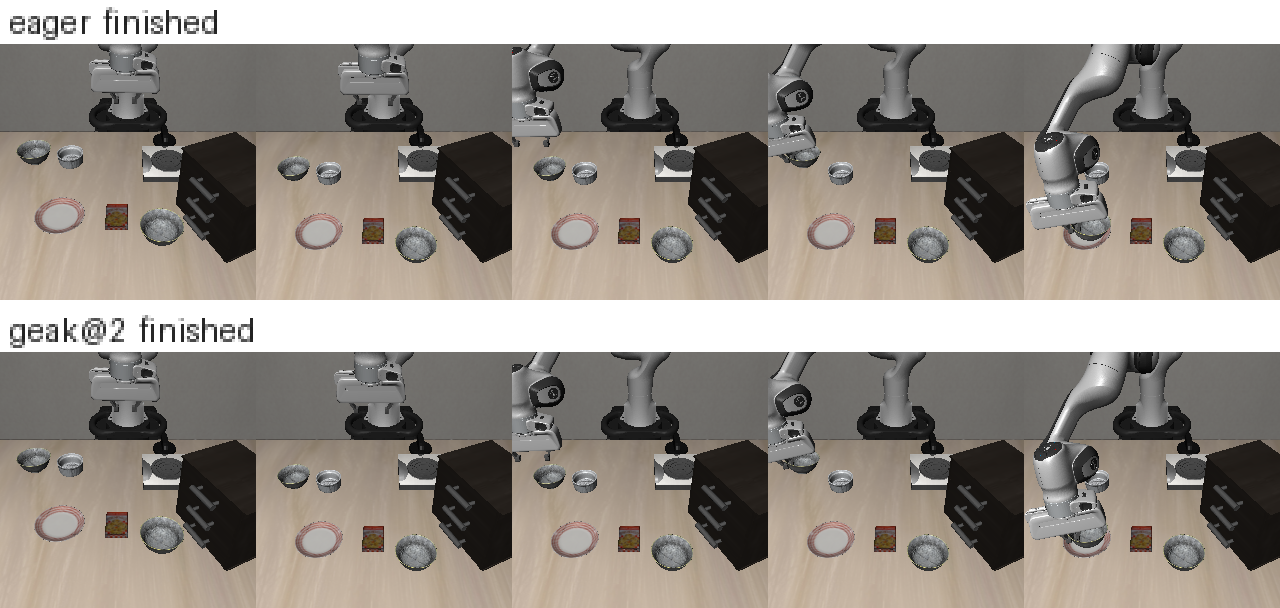
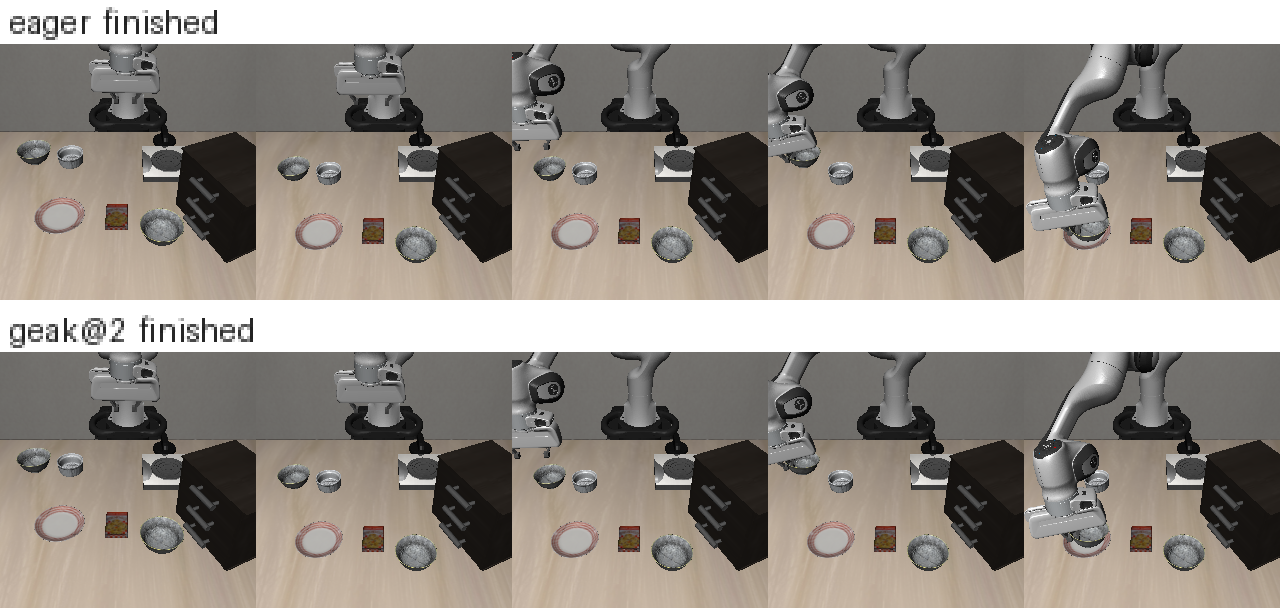
docs: replace the FastWAM post's numbers with the 2026-11-05 rerun
The latency table, its agreement check, the operator mix, both warm ranks, the kernel cards, PC sampling, the thread trace, TunableOp, the smokes, CAE, and the rollout images now come from the rerun, and the five affected charts are redrawn from it. A pinned-versus-unpinned A/B adds CPU pinning as a measured lever: it clears the keep rule for eager only. The 2026-11-03 mad-optimize patch, the eager GEMM replay, and the stall reproduction keep their own dates, because their reruns are still queued.

diff --git a/docs/blog/2026-10-31-hands-on-mad-world-action-models.md b/docs/blog/2026-10-31-hands-on-mad-world-action-models.md
@@ -6,10 +6,10 @@ The fast kernels come from [`faster-action-models`](https://rocm.blogs.amd.com/a
 
 ## Key takeaways
 
-- **The released GEAK ladder reproduces on MI350X.** The published MI355X times are 222.55 ms eager, 24.17 ms for the shipped GEAK tree (9.2×), and 9.59 ms at 2 denoising steps (about 23×). The same three arms on one MI350X measure 223.93, 24.90, and 9.93 ms. Two later sweeps landed within 2% of those medians. MAD measured this tree. It did not create the 9×.
-- **The warm profile names the real hotspot.** A cold trace says `triton_mm` is 66% of kernel time, but that is `torch.compile` autotuning. After a warm cache, the top kernel is `_fw_skmm_kernel` at 14.6%. Its kernel card says it is bandwidth-bound, and a rocprofv3 thread trace shows that both of its compiled variants spend most of their cycles waiting on global loads.
-- **The keep rule refuses a kernel-only win.** A budget-1 patch made `_fw_skmm_kernel` 1.0378× faster on its own test. Two end-to-end samples do not clear the keep rule, so `mad-optimize` leaves the shipped tree in place. That is "not kept," not a measured regression. A TunableOp attempt is not kept either.
-- **A 40-task smoke stays in the same range as the published evaluation.** GEAK at 2 steps solved 39 of 40 tasks and eager solved 40 of 40, one trial each. The published MI355X evaluation, a mean of 11 full LIBERO runs, is 96.86% for GEAK and 97.00% at 2 steps. The smoke is consistent with that range. It is not that evaluation.
+- **The released GEAK ladder reproduces on MI350X.** The published MI355X times are 222.55 ms eager, 24.17 ms for the shipped GEAK tree (9.2×), and 9.59 ms at 2 denoising steps (about 23×). The same three arms on one MI350X measure 225.90, 24.85, and 9.99 ms. Two later runs on the same GPU landed within 2% of those medians. MAD measured this tree. It did not create the 9×.
+- **The warm profile names the real hotspot.** A cold trace says `triton_mm` is 66% of kernel time, but that is `torch.compile` autotuning. After a warm cache, the top kernel is `_fw_skmm_kernel` at 14.8%. Its kernel card says it is bandwidth-bound, and a rocprofv3 thread trace shows that both of its compiled variants spend most of their cycles waiting on global loads.
+- **The keep rule refuses a kernel-only win and keeps a host-side one.** A budget-1 GEAK patch made `_fw_skmm_kernel` 1.0378× faster on its own test, but two end-to-end samples do not clear the keep rule, so `mad-optimize` leaves the shipped tree in place. That is "not kept," not a measured regression. In the rerun, GEAK's one round found nothing faster. TunableOp is not kept either. Pinning the eager arm to its GPU's NUMA-local CPU cores is kept: 3.6% faster, against 1.1% noise.
+- **A 40-task smoke stays in the same range as the published evaluation.** GEAK at 2 steps solved 40 of 40 tasks and eager solved 37 of 40, one trial each. The published MI355X evaluation, a mean of 11 full LIBERO runs, is 96.86% for GEAK and 97.00% at 2 steps. The smoke is consistent with that range. It is not that evaluation.
 - **The prompts that reproduce each section are collected in the appendix.** Four of them stay in the text, at the step where the prompt itself is the lesson. Paste them into Claude Code from the MAD repo root.
 
 ## How to read this post
@@ -18,7 +18,7 @@ The result comes first, then the tool that produced it, then the profiling and t
 
 A skill that builds, runs, or writes files starts with a slash command: `/mad-add-model`, `/mad-benchmark`, `/mad-profile`, or `/mad-tune`. A plain sentence does not start one. `/mad-validate-model` and `/mad-report` are read-only.
 
-The three workflows, `mad-benchmark-sweep`, `mad-tune-search`, and `mad-optimize`, are not slash commands. They start through Claude Code's Workflow tool, with a JSON object as `args`, and they only plan unless `execute` is `true`. GPU runs go through `mad-run.sh`, which queues runs so two jobs never share a GPU.
+The three workflows, `mad-benchmark-sweep`, `mad-tune-search`, and `mad-optimize`, are not slash commands. They start through Claude Code's Workflow tool, with a JSON object as `args`, and they only plan unless `execute` is `true`. Claude Code asks you to approve a workflow before it runs. A headless `claude -p` session cannot answer that prompt, so pass it `--allowedTools Workflow`. GPU runs go through `mad-run.sh`, which queues runs so two jobs never share a GPU.
 
 Every prompt mounts the model weights from a host directory. Replace `<host-weights-dir>` with that directory.
 
@@ -39,31 +39,31 @@ The post compares four latency arms:
 
 ## 2. The latency ladder
 
-This table is a reproduction of the GEAK tree that [`faster-action-models`](https://rocm.blogs.amd.com/artificial-intelligence/faster-action-models/README.html) already ships, run on one MI350X. It is not a new optimization. The cited numbers come from one container that times all four arms in three interleaved rounds. Spread is `(max − min) / median`.
+This table is a reproduction of the GEAK tree that [`faster-action-models`](https://rocm.blogs.amd.com/artificial-intelligence/faster-action-models/README.html) already ships, run on one MI350X. It is not a new optimization. The cited numbers come from one container that times all four arms in three interleaved rounds, on 2026-11-05 with nothing else running on the node. Spread is `(max − min) / median`.
 
 | arm | denoising steps | rounds (ms) | median (ms) | spread | vs eager |
 |---|---:|---|---:|---:|---:|
-| eager | 10 | 216.579, 223.929, 229.188 | 223.93 | 5.63% | 1.00× |
-| compile | 10 | 87.373, 88.973, 89.335 | 88.97 | 2.21% | 2.52× |
-| GEAK | 10 | 24.845, 24.899, 24.946 | 24.90 | 0.41% | 8.99× |
-| GEAK at 2 steps | 2 | 9.921, 9.931, 9.959 | 9.93 | 0.38% | 22.55× |
+| eager | 10 | 218.486, 225.903, 227.042 | 225.90 | 3.79% | 1.00× |
+| compile | 10 | 88.426, 90.262, 94.789 | 90.26 | 7.05% | 2.50× |
+| GEAK | 10 | 24.722, 24.848, 24.980 | 24.85 | 1.04% | 9.09× |
+| GEAK at 2 steps | 2 | 9.952, 9.990, 10.041 | 9.99 | 0.89% | 22.61× |
 
-![One session. The dot is the median of three rounds and the bar is min to max. Eager is near 224 ms, so the two GEAK arms sit close to the axis.](figures/latency-ladder.svg)
+![One session. The dot is the median of three rounds and the bar is min to max. Eager is near 226 ms, so the two GEAK arms sit close to the axis.](figures/latency-ladder.svg)
 
-![Times faster than eager on the same MI350X: compile 2.52×, GEAK 8.99×, GEAK at 2 steps 22.55×.](figures/latency-ratio.svg)
+![Times faster than eager on the same MI350X: compile 2.50×, GEAK 9.09×, GEAK at 2 steps 22.61×.](figures/latency-ratio.svg)
 
-The sweep runs each arm as its own cell. It ran on two days, and both runs agree with the cited medians to within 2%:
+Two later runs of the same container, on the same GPU with nothing else on the node, agree with the cited medians. Eager and both GEAK arms stay within 2%. Compile, whose rounds spread the most, moved by up to 4.3%:
 
-| arm | cited median (ms) | sweep, day 1 (ms) | sweep, day 2 (ms) |
+| arm | cited median (ms) | later run 1 (ms) | later run 2 (ms) |
 |---|---:|---:|---:|
-| eager | 223.93 | 221.46 | 220.86 |
-| compile | 88.97 | 90.64 | 90.64 |
-| GEAK | 24.90 | 24.67 | 24.54 |
-| GEAK at 2 steps | 9.93 | 9.89 | 9.90 |
+| eager | 225.90 | 226.91 | 224.45 |
+| compile | 90.26 | 88.26 | 94.18 |
+| GEAK | 24.85 | 24.53 | 24.86 |
+| GEAK at 2 steps | 9.99 | 9.99 | 9.81 |
 
-A later one-container run, on 2026-11-03, timed the four arms together the same way as the cited table. Its medians were 220.02, 90.28, 25.25, and 9.82 ms, each within 2% of the cited median. Its compile rounds spread 10.28%, from 85.68 ms to 94.96 ms. The cited table's compile spread is 2.21%.
+The sweep workflow, `mad-benchmark-sweep` with `execute` on, runs each arm as its own cell. In this rerun its cells ran pinned to GPU 0's CPU cores while six other runs shared the node, and measured 200.13, 81.72, 24.71, and 9.78 ms. Those eager and compile cells are not comparable with the table. On a quiet node, pinning alone made eager 3.6% faster (section 7), less than the gap here, and the run does not show where the rest came from.
 
-On this GPU, GEAK is 3.57× faster than `torch.compile`. The published MI355X comparison is in the same band: `torch.compile` is 1.6–2.6× over eager, and the shipped GEAK tree is 3.7× faster than that compiled path. The published absolute times, on an MI355X, are 222.55 ms eager, 24.17 ms GEAK, and 9.59 ms at 2 steps. The MI350X medians above sit next to those figures. The two machines are not the same measurement, and the post does not treat the small gap between them as a result.
+On this GPU, GEAK is 3.63× faster than `torch.compile`. The published MI355X comparison is in the same band: `torch.compile` is 1.6–2.6× over eager, and the shipped GEAK tree is 3.7× faster than that compiled path. The published absolute times, on an MI355X, are 222.55 ms eager, 24.17 ms GEAK, and 9.59 ms at 2 steps. The MI350X medians above sit next to those figures. The two machines are not the same measurement, and the post does not treat the small gap between them as a result.
 
 That speedup belongs to the kernel tree `faster-action-models` ships. The published write-up attributes it to HIP graph replay, wider projections, less dispatch and data movement, and a fixed-shape VAE, not to one kernel edit. MAD's part is a measurement anyone can repeat.
 
@@ -133,17 +133,17 @@ $ python3 tools/validation/model_config_validator.py --model pyt_fam_fastwam_lat
 
 | category | share of kernel time |
 |---|---:|
-| elementwise | 50.78% |
-| GEMM | 24.58% |
-| reduce | 8.23% |
-| attention (SDPA) | 7.75% |
-| normalization | 3.63% |
-| other | 3.04% |
-| convolution | 1.98% |
+| elementwise | 49.68% |
+| GEMM | 25.01% |
+| reduce | 8.56% |
+| attention (SDPA) | 8.10% |
+| normalization | 3.49% |
+| other | 3.09% |
+| convolution | 2.07% |
 
-The GPU is idle for 70% of that window. Eager mode issues many small kernels, one PyTorch operation at a time, and the GPU waits for the host in between. The dispatch depth agrees: no single kernel takes more than 8.6% of eager GPU time. The top kernel is a hipBLASLt GEMM, followed by a mean reduction, an elementwise multiply, and attention, each near 8%. The latency ladder above is what that wait costs once `torch.compile` or the shipped GEAK tree is used.
+The GPU is idle for 67% of that window. Eager mode issues many small kernels, one PyTorch operation at a time, and the GPU waits for the host in between. The dispatch depth agrees: no single kernel takes more than 9.1% of eager GPU time. The top kernel is a hipBLASLt GEMM, followed by a mean reduction, attention, and an elementwise multiply, each near 8%. The latency ladder above is what that wait costs once `torch.compile` or the shipped GEAK tree is used.
 
-**The top eager kernel, measured inside the model.** The kernel serves two `F.linear` shapes, both bf16 with bias: 32×1024 by 1024×3072, and 32×1024 by 1024×4096. The card is a short run, one warm-up inference and one timed one, 3,000 dispatches across the five counter passes. Its duration is the median of those launches, 7.16 µs, 3.8% below the 7.44 µs median of the same kernel in the model's kernel trace. The trace mean is 7.46 µs. The right-hand column replays the kernel outside the model, and that replay's median, 7.44 µs, matches the trace median. The script is in the appendix.
+**The top eager kernel, measured inside the model.** The kernel serves two `F.linear` shapes, both bf16 with bias: 32×1024 by 1024×3072, and 32×1024 by 1024×4096. The card is a short run, one warm-up inference and one timed one, 3,000 dispatches across the five counter passes. Its duration is the median of those launches, 7.16 µs, within 1% of the 7.12 µs median of the same kernel in the model's kernel trace. The trace mean is 7.51 µs. The right-hand column replays the kernel outside the model, in a run from 2026-11-04. The script is in the appendix.
 
 | | top eager GEMM, in the model | replayed outside the model |
 |---|---|---|
@@ -155,7 +155,7 @@ The GPU is idle for 70% of that window. Eager mode issues many small kernels, on
 
 The card's rule labels a kernel latency-bound only when both rows are under 10% of peak, so 13.2% puts this GEMM just on the bandwidth side of that line. With only 32 rows, the multiply cannot fill the GPU: each launch has at most one workgroup per compute unit, and finishes in a few microseconds. Speeding up this one GEMM would not change the picture much. Fusing operations and replaying them as graphs, which `torch.compile` and the GEAK tree do, removes the gaps between launches.
 
-Counter collection on this arm finishes when launches are serialized. Without that, the run stops at the GPU-to-CPU copy at the end of an inference, GPU idle, including with a kernel filter that matches nothing and with `HSA_ENABLE_SDMA=0`. A kernel trace and PC sampling finish, and the GEAK arm finishes under the same counters. A small script reproduces the hang: tens of thousands of tiny launches, then a host wait, under counters. `AMD_SERIALIZE_KERNEL=3` makes the host wait after every launch, and `kernel-tools.py context --serialize` sets it. With that set, the original configuration, 25 warm-up and 40 timed inferences, finished in about 11 minutes. Before the change it ran for more than 30 minutes and wrote no counter file. The root cause, in rocprofiler-sdk or the HSA runtime, is still open. The launch counts are in the appendix.
+Counter collection on this arm finishes when launches are serialized. Without that, the run stops at the GPU-to-CPU copy at the end of an inference, GPU idle, including with a kernel filter that matches nothing and with `HSA_ENABLE_SDMA=0`. A kernel trace and PC sampling finish, and the GEAK arm finishes under the same counters. A small script reproduces the hang: tens of thousands of tiny launches, then a host wait, under counters. `AMD_SERIALIZE_KERNEL=3` makes the host wait after every launch, and `kernel-tools.py context --serialize` sets it. With that set, the original configuration, 25 warm-up and 40 timed inferences, finished in about 9 minutes. Before the change it ran for more than 30 minutes and wrote no counter file. The root cause, in rocprofiler-sdk or the HSA runtime, is still open. The launch counts are in the appendix.
 
 ```text
 python3 .claude/skills/mad-common/kernel-tools.py context --mode counters --group compute --serialize \
@@ -165,7 +165,7 @@ madengine run --tags pyt_fam_fastwam_eager --additional-context-file <run-dir>/c
 python3 .claude/skills/mad-common/kernel-tools.py card --run-dir <run-dir>
 ```
 
-The same 65-inference run profiled 97,500 dispatches and gave the same 7.16 µs and 13.2% bandwidth. Its mean matrix-core share reads 3.3%, because about one dispatch in five reported a larger matrix-operation count than the rest. The wave count is exact on every dispatch. The median per launch shape is 1.3%, the short run's number, so the card above is the short run.
+The same 65-inference run profiled 97,500 dispatches and gave 7.20 µs, 13.1% of peak bandwidth, and 1.3% of peak matrix-core throughput, the short run's numbers.
 
 A run under a profiler is slower than a clean run, so its `performance:` line is evidence, not a score. That holds for every profiled run in this post.
 
@@ -173,30 +173,30 @@ A run under a profiler is slower than a clean run, so its `performance:` line is
 
 The GEAK arm is already about 9× faster than eager. The next question is which kernel inside it is worth optimizing, and the first answer was wrong.
 
-**The trap: a cold trace.** The first dispatch capture on the GEAK arm put `triton_mm` at 66% of kernel time. That capture started with an empty compile cache. On a cold `torch.compile` run, `triton_mm` is Inductor timing autotune candidates, and those candidates never run again once the cache is warm. GPU utilization over that capture was 5.4%, because it included startup. Optimizing `triton_mm` would have chased compile time, not inference.
+**The trap: a cold trace.** The first dispatch capture on the GEAK arm, on 2026-11-02, put `triton_mm` at 66% of kernel time. That capture started with an empty compile cache. On a cold `torch.compile` run, `triton_mm` is Inductor timing autotune candidates, and those candidates never run again once the cache is warm. GPU utilization over that capture was 5.4%, because it included startup. Optimizing `triton_mm` would have chased compile time, not inference.
 
 ![Perfetto timeline of the cold GEAK capture, about 75 seconds. Queue 3 holds the kernels.](figures/perfetto-dispatch-overview.png)
 
 ![Perfetto, 50 microseconds of the cold capture. The wide slices are triton_mm autotune candidates.](figures/perfetto-dispatch-zoom.png)
 
-**The fix: warm first, then rank.** `/mad-profile` now runs the model once to fill the compile cache, then takes a rocprofv3 kernel trace and ranks kernels by GPU time. It uses rocprofv3 rather than the lighter `rocm_trace_lite`, because `rocm_trace_lite` does not see kernels replayed from HIP graphs, and the GEAK tree replays many of them. The warm trace recorded about 340,000 kernel launches:
+**The fix: warm first, then rank.** `/mad-profile` now runs the model once to fill the compile cache, then takes a rocprofv3 kernel trace and ranks kernels by GPU time. It uses rocprofv3 rather than the lighter `rocm_trace_lite`, because `rocm_trace_lite` does not see kernels replayed from HIP graphs, and the GEAK tree replays many of them. The warm trace recorded about 336,000 kernel launches:
 
 | kernel | share of GPU kernel time | launches | average |
 |---|---:|---:|---:|
-| `_fw_skmm_kernel` | 14.6% | 58,680 | 5.01 µs |
-| `_fw_skpost_kernel` | 13.7% | 57,376 | 4.79 µs |
-| fused addmm and layer norm | 7.4% | 19,560 | 7.62 µs |
-| `_fw_qrms_attn_kernel` | 7.2% | 19,560 | 7.42 µs |
-| `_fw_attn_kernel` | 7.1% | 23,580 | 6.04 µs |
-| `_fw_pfsk_kernel` | 5.8% | 8,040 | 14.39 µs |
-| fused addmm and GELU | 5.6% | 19,560 | 5.78 µs |
-| fill | 5.5% | 33,578 | 3.26 µs |
+| `_fw_skmm_kernel` | 14.8% | 58,680 | 4.85 µs |
+| `_fw_skpost_kernel` | 13.5% | 57,376 | 4.53 µs |
+| fused addmm and layer norm | 7.8% | 19,560 | 7.64 µs |
+| `_fw_qrms_attn_kernel` | 7.6% | 19,560 | 7.42 µs |
+| `_fw_attn_kernel` | 7.4% | 23,580 | 6.05 µs |
+| fused addmm and GELU | 7.3% | 19,560 | 7.13 µs |
+| `_fw_pfsk_kernel` | 6.0% | 8,040 | 14.36 µs |
+| fused addmm | 5.4% | 19,560 | 5.31 µs |
 
-![Top kernels on the GEAK tree after a warm cache. _fw_skmm_kernel is 14.6% of GPU kernel time. The eight bars are the head of the list.](figures/kernel-share.svg)
+![Top kernels on the GEAK tree after a warm cache. _fw_skmm_kernel is 14.8% of GPU kernel time. The eight bars are the head of the list.](figures/kernel-share.svg)
 
 No kernel dominates. The top one, `_fw_skmm_kernel`, is a split-K matrix multiply: it splits the long inner dimension across workgroups, and a second kernel adds the partial results.
 
-**Why that kernel is slow.** The kernel depth collects hardware counters for that one kernel and reduces them to a kernel card. The card's duration is the median launch time. Under counters that median is 4.32 µs. In the kernel trace, with no counters, the same kernel's median is 5.00 µs and its mean is the 5.01 µs in the table above, so the counter run is 13.6% faster. The bandwidth and matrix-core rows come from the counter run, so the card uses that run:
+**Why that kernel is slow.** The kernel depth collects hardware counters for that one kernel and reduces them to a kernel card. The card's duration is the median launch time. Under counters that median is 4.32 µs. In the kernel trace, with no counters, the same kernel's median is 4.80 µs and its mean is the 4.85 µs in the table above, so the counter run is 10% faster. The bandwidth and matrix-core rows come from the counter run, so the card uses that run:
 
 | | `_fw_skmm_kernel` |
 |---|---|
@@ -204,7 +204,7 @@ No kernel dominates. The top one, `_fw_skmm_kernel`, is a split-K matrix multipl
 | achieved bandwidth | 28.3% of the MI350X peak (8.0 TB/s) |
 | achieved matrix-core throughput | 2.2% of peak |
 | bound | bandwidth |
-| PC sampling | 68% of samples waiting on memory (`s_waitcnt`) |
+| PC sampling | 67% of samples waiting on memory (`s_waitcnt`) |
 
 ![_fw_skmm_kernel reaches 28.3% of peak bandwidth and 2.2% of peak matrix-core throughput.](figures/kernel-bound.svg)
 
@@ -212,7 +212,7 @@ The bandwidth and matrix-core rows are rocprofv3 hardware counters. The wait row
 
 The name `_fw_skmm_kernel` covers two compiled variants, one for each K shape. The counter run measured both: 39,120 launches of the K=3072 variant and 19,560 of the K=4096 variant, a 2:1 split. The card is their launch-weighted average. Its 26.7 matrix instructions per wave is (2 × 24 + 32) / 3, the variants' counts weighted 2:1, rounded to one decimal. The assembly listing has 240 instructions for K=3072 and 289 for K=4096, with 24 and 32 matrix instructions.
 
-A rocprofv3 thread trace (`--att`) shows each variant instruction by instruction. It traced six launches of each on one compute unit, over kernel iterations `[300-305]`, and saved the code object each launch ran. Both saved code objects are byte-identical to the Triton builds the assembly listing disassembled. `/mad-profile <tag> thread_trace` runs these flags through the profiler shim. The table below came from these flags, run by hand before the skill had this depth:
+A rocprofv3 thread trace (`--att`) shows each variant instruction by instruction. It traced six launches of each on one compute unit, over kernel iterations `[300-305]`, and saved the code object each launch ran. Both saved code objects are byte-identical to the Triton builds the assembly listing disassembled. `/mad-profile <tag> thread_trace` runs these flags through the profiler shim, and the table below is that depth's output:
 
 ```text
 rocprofv3 --kernel-trace --att --att-target-cu 1 \
@@ -221,9 +221,9 @@ rocprofv3 --kernel-trace --att --att-target-cu 1 \
 
 | | K=3072 (2/3 of launches) | K=4096 (1/3 of launches) |
 |---|---:|---:|
-| traced cycles in `s_waitcnt` | 60% | 68% |
-| stall cycles in `s_waitcnt` | 76% | 88% |
-| traced cycles in MFMA | 1.9% | 2.6% |
+| traced cycles in `s_waitcnt` | 60% | 67% |
+| stall cycles in `s_waitcnt` | 76% | 86% |
+| traced cycles in MFMA | 2.0% | 2.6% |
 
 ![Both variants spend most of their traced cycles in s_waitcnt. Matrix instructions are the thin orange sliver.](figures/variant-wait.svg)
 
@@ -251,11 +251,11 @@ A kernel or setting that is faster in isolation does not always make the model f
 
 ![mad-tune-search: baseline, then TraceLens, rocm-trace-lite, and rocprofv3. Assembly is the compiled kernel that the rocprofv3 run kept. The workflow proposes one lever, measures it cleanly, and keeps a config only when the gate passes. mad-optimize is the separate workflow that hands the kernel card to GEAK.](figures/tune-search.svg)
 
-Two changes went through that rule.
+Three changes went through that rule.
 
-**A GEAK kernel patch (`mad-optimize`, budget 1).** `mad-optimize` handed `_fw_skmm_kernel` to GEAK with one attempt. GEAK retuned two defaults: the split-K reduction and the tile size for the K=4096 shape. On its own kernel test, the geometric mean over the two K shapes went from 5.150 µs to 4.959 µs. The 1.0378× is the geometric mean of the per-shape speedups, 1.0476× at K=3072 and 1.0282× at K=4096. Then the whole model was measured twice with the shipped tree, and twice with the patched tree mounted in its place, under `mad-optimize`'s keep rule:
+**A GEAK kernel patch (`mad-optimize`, budget 1).** `mad-optimize` hands the top kernel to GEAK with one attempt. In this rerun, GEAK's one round found no faster variant of `_fw_skmm_kernel`, so there was no patch for the model gate. The workflow reports that empty patch as an error, not as "no candidate." The run on 2026-11-03 did produce a patch, and it shows the rule at work. GEAK retuned two defaults: the split-K reduction and the tile size for the K=4096 shape. On its own kernel test, the geometric mean over the two K shapes went from 5.150 µs to 4.959 µs. The 1.0378× is the geometric mean of the per-shape speedups, 1.0476× at K=3072 and 1.0282× at K=4096. Then the whole model was measured twice with the shipped tree, and twice with the patched tree mounted in its place, under `mad-optimize`'s keep rule:
 
-![Budget 1. The kernel test is 1.0378×, the geometric mean of the two shapes. One patched model sample matches the shipped tree and the other is 35.88 ms, so the two samples do not clear the keep rule.](figures/optimize-budget.svg)
+![Budget 1, 2026-11-03. The kernel test is 1.0378×, the geometric mean of the two shapes. One patched model sample matches the shipped tree and the other is 35.88 ms, so the two samples do not clear the keep rule.](figures/optimize-budget.svg)
 
 | tree | samples (ms) | median (ms) |
 |---|---|---:|
@@ -264,13 +264,22 @@ Two changes went through that rule.
 
 The gate does not keep the patch. Each sample is itself a median of 40 iterations. In the 35.88 ms sample those iterations spread from 25.64 ms to a 90th percentile of 44.35 ms. In the 24.79 ms sample the 90th percentile is 24.86 ms. The run does not show why the first sample spread, so the two medians are not evidence that the model got slower. The better sample is 0.16% under the shipped median, inside the 1% floor. With two samples the only supported result is "not kept."
 
-That result also matches the kernel card. `_fw_skmm_kernel` is 14.6% of GPU kernel time, so a 3.7% gain on it is worth about 0.5% of GPU kernel time at most. A later attempt has to cut launches or bytes, for example by folding the separate reduction into the multiply. Another pass over the same tile defaults would be the change this gate already refused.
+That result also matches the kernel card. `_fw_skmm_kernel` is 14.8% of GPU kernel time, so a 3.7% gain on it is worth about 0.5% of GPU kernel time at most. A later attempt has to cut launches or bytes, for example by folding the separate reduction into the multiply. Another pass over the same tile defaults would be the change this gate already refused.
 
-**A GEMM setting (`mad-tune-search`).** In plan mode, `mad-tune-search` proposed `PYTORCH_TUNABLEOP_ENABLED=1`, which lets PyTorch time rocBLAS and hipBLASLt GEMM solutions and pick the fastest. It changes no tracked file. On the GEAK arm, two clean baseline runs measured 24.90 and 24.93 ms. The tuning run measured 25.29 ms and wrote no results file. One candidate run failed in Inductor (`CantSplit: 640 not divisible by 392`) before it printed a performance line, and the other measured 25.00 ms. With one candidate sample, the keep rule does not have the two samples it requires, so TunableOp is not kept.
-
-An earlier clean attempt on 2026-11-01 did clear the numeric gate. The baselines were 25.08 and 25.51 ms (spread 1.72%), and the TunableOp samples were 24.56 and 24.87 ms, 2.29% faster. Both samples sit inside that day's unmodified GEAK results, 24.43 ms to 25.51 ms, so that attempt is not kept either. The GEAK tree's hot matrix multiplies are its own Triton kernels, which TunableOp does not touch.
+**A GEMM setting (`mad-tune-search`).** In plan mode, `mad-tune-search` proposes one lever from the evidence it finds. In this rerun it found no dispatch rank in its own run directory, proposed fewer denoising steps, and flagged that lever itself: it needs a code change and an accuracy check. The lever measured here is `PYTORCH_TUNABLEOP_ENABLED=1`, which lets PyTorch time rocBLAS and hipBLASLt GEMM solutions and pick the fastest. It changes no tracked file. On the GEAK arm, two clean baseline runs measured 24.50 and 25.23 ms. The tuning run measured 24.81 ms and wrote no results file. Two candidate runs measured 24.87 and 24.52 ms. The candidate median is 0.7% under the baseline median, inside the 2.95% baseline spread, so TunableOp is not kept. The GEAK tree's hot matrix multiplies are its own Triton kernels, which TunableOp does not touch.
 
 One measurement tip from these tuning runs: `madengine run -m <manifest>` reuses profiling tools a previous run saved into the same manifest. Pass `"tools": []` in the additional context for a clean measurement.
+
+**CPU pinning (`docker_cpus`).** madengine pins a container to CPU cores when the additional context has a `docker_cpus` key. The eager arm waits on the host, so the cores it runs on can matter. On GPU 0, with nothing else on the node, the four-arm run alternated unpinned and pinned to GPU 0's NUMA-local cores, 0–15 and their SMT siblings, two runs each:
+
+| arm | unpinned (ms) | pinned (ms) | gain | noise | kept |
+|---|---|---|---:|---:|---|
+| eager | 226.91, 224.45 | 218.41, 216.62 | 3.6% | 1.1% | yes |
+| compile | 88.26, 94.18 | 86.31, 86.89 | 5.1% | 6.5% | no |
+| GEAK | 24.53, 24.86 | 24.42, 24.84 | 0.3% | 1.7% | no |
+| GEAK at 2 steps | 9.99, 9.81 | 9.84, 9.80 | 0.8% | 1.8% | no |
+
+Each entry is the median of three rounds, and noise is the larger spread of the two sides, with the 1% floor. Pinning clears the rule for eager only. Compile may gain too, but its rounds vary more than the gain. The GEAK tree replays HIP graphs, so it issues few launches from the host, and its arms do not move. The latency table above stays unpinned, like the published one.
 
 **Prompt: plan the optimization, without spending the budget**
 
@@ -279,7 +288,7 @@ Run the mad-optimize workflow in plan mode. Use the Workflow tool. scriptPath is
 
 {"tag":"pyt_fam_fastwam_geak","smokeTag":"pyt_fam_fastwam_geak2_smoke","budget":1,"repeats":2,"execute":false,"additionalContext":{"docker_mounts":{"/myworkspace/fam_cache":"<host-weights-dir>"},"docker_env_vars":{"FAM_CACHE":"/myworkspace/fam_cache"}}}
 
-Do not run madengine run. Do not spend the budget. Quote the kernel it names and confirm execute is false.
+Do not run madengine run. Do not spend the budget. Quote the commands it plans and confirm execute is false.
 ```
 
 To spend the budget, send the same object with `"execute": true`.
@@ -290,10 +299,10 @@ Fewer denoising steps are only useful if the robot still succeeds. These smokes 
 
 | arm | spatial | object | goal | long | success_rate |
 |---|---:|---:|---:|---:|---:|
-| eager | 10/10 | 10/10 | 10/10 | 10/10 | 1.000 |
-| GEAK at 2 steps | 10/10 | 10/10 | 9/10 | 10/10 | 0.975 |
+| eager | 9/10 | 10/10 | 10/10 | 8/10 | 0.925 |
+| GEAK at 2 steps | 10/10 | 10/10 | 10/10 | 10/10 | 1.000 |
 
-The one miss was a goal-suite task. Two earlier pairs, on 2026-11-01 and 2026-11-02, solved all 40 tasks on both arms. One miss in 40 single-trial episodes sits near the published 97% and does not measure a difference between the two arms.
+Eager missed three tasks: one spatial and two long-horizon. GEAK at 2 steps solved all 40. The three earlier eager smokes solved all 40. Three misses in 40 single-trial episodes is consistent with the published 97% at this sample size, and does not measure a difference between the two arms.
 
 `pyt_fam_fastwam_rollout` saves frames from four tasks, one per suite, for both arms. All eight episodes succeeded. The top row is eager, and the bottom row is GEAK at 2 steps:
 
@@ -307,21 +316,23 @@ The one miss was a goal-suite task. Two earlier pairs, on 2026-11-01 and 2026-11
 
 ## 9. A second checkpoint: CAE-FastWAM
 
-CAE-FastWAM (`amd/CAE-FastWAM`) is a different checkpoint, so it is its own model, `pyt_fam_cae_fastwam_latency`, not a fifth sweep cell. The run uses the `cae-fastwam` tree at 10 denoising steps with compile enabled. It measured 13.58 ms, 13.59 ms, and 13.64 ms, one sample on each of three days. The published MI355X figure for GEAK plus the Compact Action Expert at 10 steps is 12.82 ms, with 97.28% success over full LIBERO runs. These three samples are a latency check on a different GPU. They do not reproduce that success rate.
+CAE-FastWAM (`amd/CAE-FastWAM`) is a different checkpoint, so it is its own model, `pyt_fam_cae_fastwam_latency`, not a fifth sweep cell. The run uses the `cae-fastwam` tree at 10 denoising steps with compile enabled. It measured 13.61 ms, one sample. The published MI355X figure for GEAK plus the Compact Action Expert at 10 steps is 12.82 ms, with 97.28% success over full LIBERO runs. This sample is a latency check on a different GPU. It does not reproduce that success rate.
 
 ## 10. Limitations
 
-- Everything ran on one GPU of a shared eight-GPU host. The cited latency table has three rounds per arm, and the sweep cells have one sample each.
+- Each run used one GPU of a shared eight-GPU host. The latency table and the pinning comparison ran with nothing else on the node. The profiling runs, smokes, rollouts, TunableOp, and CAE ran at the same time on separate GPUs, each pinned to its GPU's NUMA-local cores. The latency table has three rounds per arm.
 - The smokes run one trial per task. They check that the 2-step arm still finishes tasks. They are not the published 11-run LIBERO evaluation, and they do not establish accuracy parity.
-- The first patched sample is a median of 40 iterations that spread from 25.64 ms to a 90th percentile of 44.35 ms. The second sample's 90th percentile is 24.86 ms. The run does not show why the first sample spread. With two samples, the result is "not kept." It is not a measured slowdown.
-- The eager GEMM card is two inferences, 3,000 dispatches, collected with `AMD_SERIALIZE_KERNEL=3`. The 65-inference run inflated about one matrix-op count in five, so it is not the card.
+- In the 2026-11-03 budget-1 run, the first patched sample is a median of 40 iterations that spread from 25.64 ms to a 90th percentile of 44.35 ms. The second sample's 90th percentile is 24.86 ms. The run does not show why the first sample spread. With two samples, the result is "not kept." It is not a measured slowdown.
+- The eager GEMM card is two inferences, 3,000 dispatches, collected with `AMD_SERIALIZE_KERNEL=3`. A 65-inference counter run on 2026-11-04 reported a larger matrix-op count on about one dispatch in five. This rerun's did not.
 - The thread trace is six launches of each `_fw_skmm_kernel` variant, iterations `[300-305]`, on one compute unit. rocprofv3 documents that mode for MI200 and MI300; this run completed on gfx950.
+- The four-arm run's GEAK arm can fail in Inductor with `CantSplit: 640 not divisible by 392`. One of the six four-arm runs in this rerun failed that way, after its first round.
 
 ## Setup
 
 | | |
 |---|---|
 | GPU | AMD Instinct MI350X (gfx950), one per run, on an 8-GPU host |
+| CPU | 2 × AMD EPYC 9575F. The latency table is unpinned. The parallel runs are pinned with `docker_cpus` to the cores on their GPU's NUMA node |
 | Base image | `rocm/pytorch:rocm7.14_ubuntu24.04_py3.12_pytorch_release_2.11.0` |
 | PyTorch | `2.11.0+rocm7.14.0` |
 | Model source | `AMD-AGI/faster-action-models` @ `a5fa731` |
@@ -396,7 +407,7 @@ One run, through mad-run.sh. Mount the weights the same way as the latency run. 
 
 ### Where the eager counter stall shows up
 
-A script that launches N tiny kernels on one stream, then copies a tensor to the CPU, under the same counters and a kernel filter that matches nothing:
+A script that launches N tiny kernels on one stream, then copies a tensor to the CPU, under the same counters and a kernel filter that matches nothing. These runs are from 2026-11-04:
 
 | launches | result |
 |---:|---|
